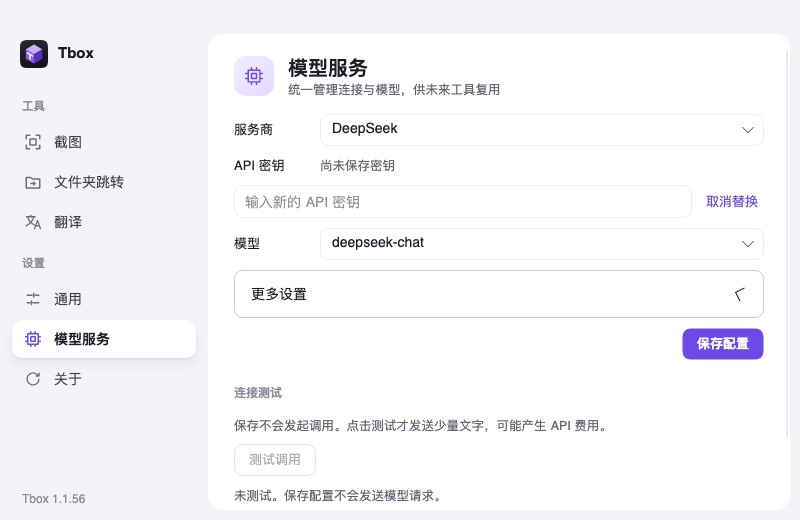
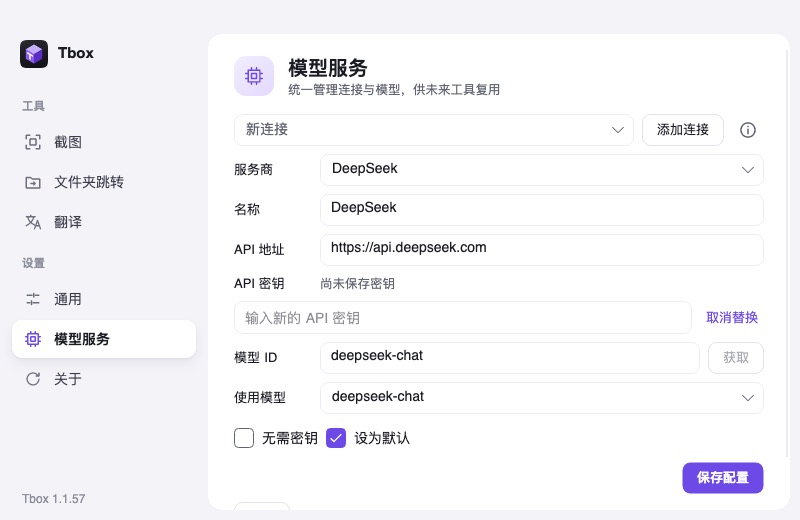
[opencode] docs: 记录 1.1.57 说明图标与装机验收

diff --git a/docs/release-history.md b/docs/release-history.md
@@ -99,12 +99,15 @@
[4 lines of base64/hex data omitted]
 
 1.1.51 和 1.1.52 为本机标注属性验证包，均保留本机 1.1.49 的截图工具栏悬停提示。1.1.52 加入标题居中，并验证原路径覆盖安装后可截图。
 
 1.1.55 是大模型公共能力开发包，复用原签名，从 1.1.52 在 `/Applications/Tbox.app` 覆盖安装。真实钥匙串存取、替换/删除、共用设置及模拟文本调用通过；正常启动后的原有屏幕授权和实际取帧通过。无真实付费 API 请求，不含翻译或 OCR 联动。Windows 实机与模型凭据后续跨版本升级待验收，尚未发布到公开正式 Release。
 
 1.1.56 新增复用公共能力的翻译工具，并将模型服务常用设置简化为服务商、密钥与模型，其他管理折叠。以原持久身份签名，在 `/Applications/Tbox.app` 从 1.1.55 覆盖安装。安装版真实钥匙串存取/替换/删除及模拟 HTTP 的翻译完整链路通过，正常启动的 1.1.56 保留原屏幕授权并取得 3024×1964 帧。130 核心、233 桌面、45 发布检查与 Windows 目标交叉编译通过；真实翻译质量、Windows 实机和模型凭据后续跨版本持续访问仍待验收。未调用真实付费翻译 API，未发布公开正式版。
+
+1.1.57 按用户要求取消模型设置折叠与常驻说明，必要帮助放入说明图标。原签名、原 `/Applications/Tbox.app` 路径从 1.1.56 覆盖升级，安装版真实钥匙串和离线翻译链路通过；系统正常启动后原屏幕授权与 3024×1964 取帧通过。130 核心、233 桌面、45 发布检查及 Windows 目标编译通过，未进行真实付费翻译调用，Windows 实机仍待验收。
 
 ## Windows 共用桌面开发包
 

diff --git a/docs/model-services.md b/docs/model-services.md
@@ -10,6 +10,8 @@
 
 最新[共用窗口控件渲染](images/model-services-simple.jpg)来自 800 宽布局测试。DeepSeek 快捷配置、取消折叠及常驻说明、帮助图标和选择自定义服务时清空未保存密钥均有自动化覆盖；真实提供商翻译、Windows 实机及跨版本凭据持续访问仍未标记通过。
 
+1.1.57 已以原签名在 `/Applications/Tbox.app` 从 1.1.56 覆盖安装。130 核心、233 桌面、45 发布检查和 Windows 目标编译通过；安装版真实钥匙串保存/读取/替换/删除、共用翻译离线链路通过。正常启动的进程 51020 保留屏幕授权并取得 3024×1964 帧；没有使用真实翻译 API。截图与验证数据不包含真实密钥。
+
 每个连接支持多个模型 ID，每行一个；保存连接后可获取列表，失败可以手动填写。获取到模型并不等于它有调用权限或支持推理。一个“连接 + 模型”组合可设为全局默认，调用方也可显式指定；无默认时不能猜测或自动切换其他服务。
 
 ## 密钥
